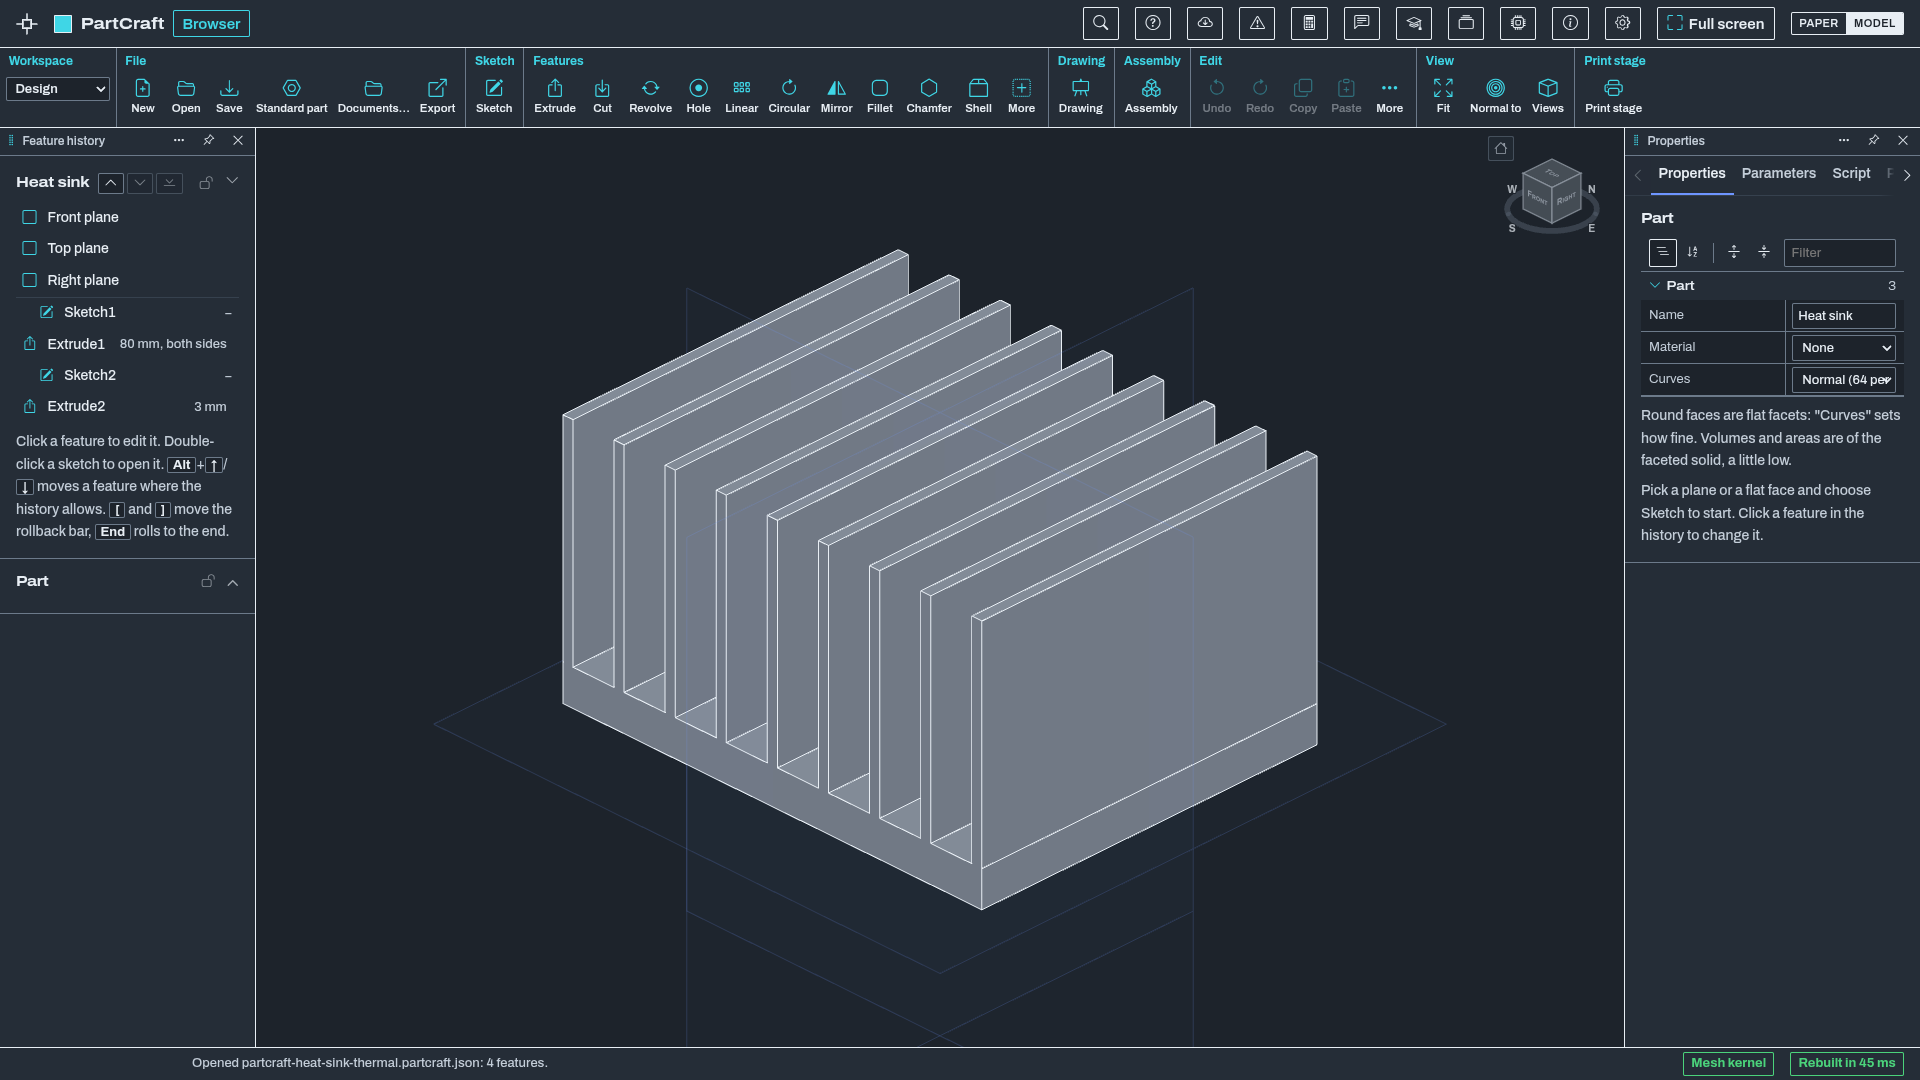
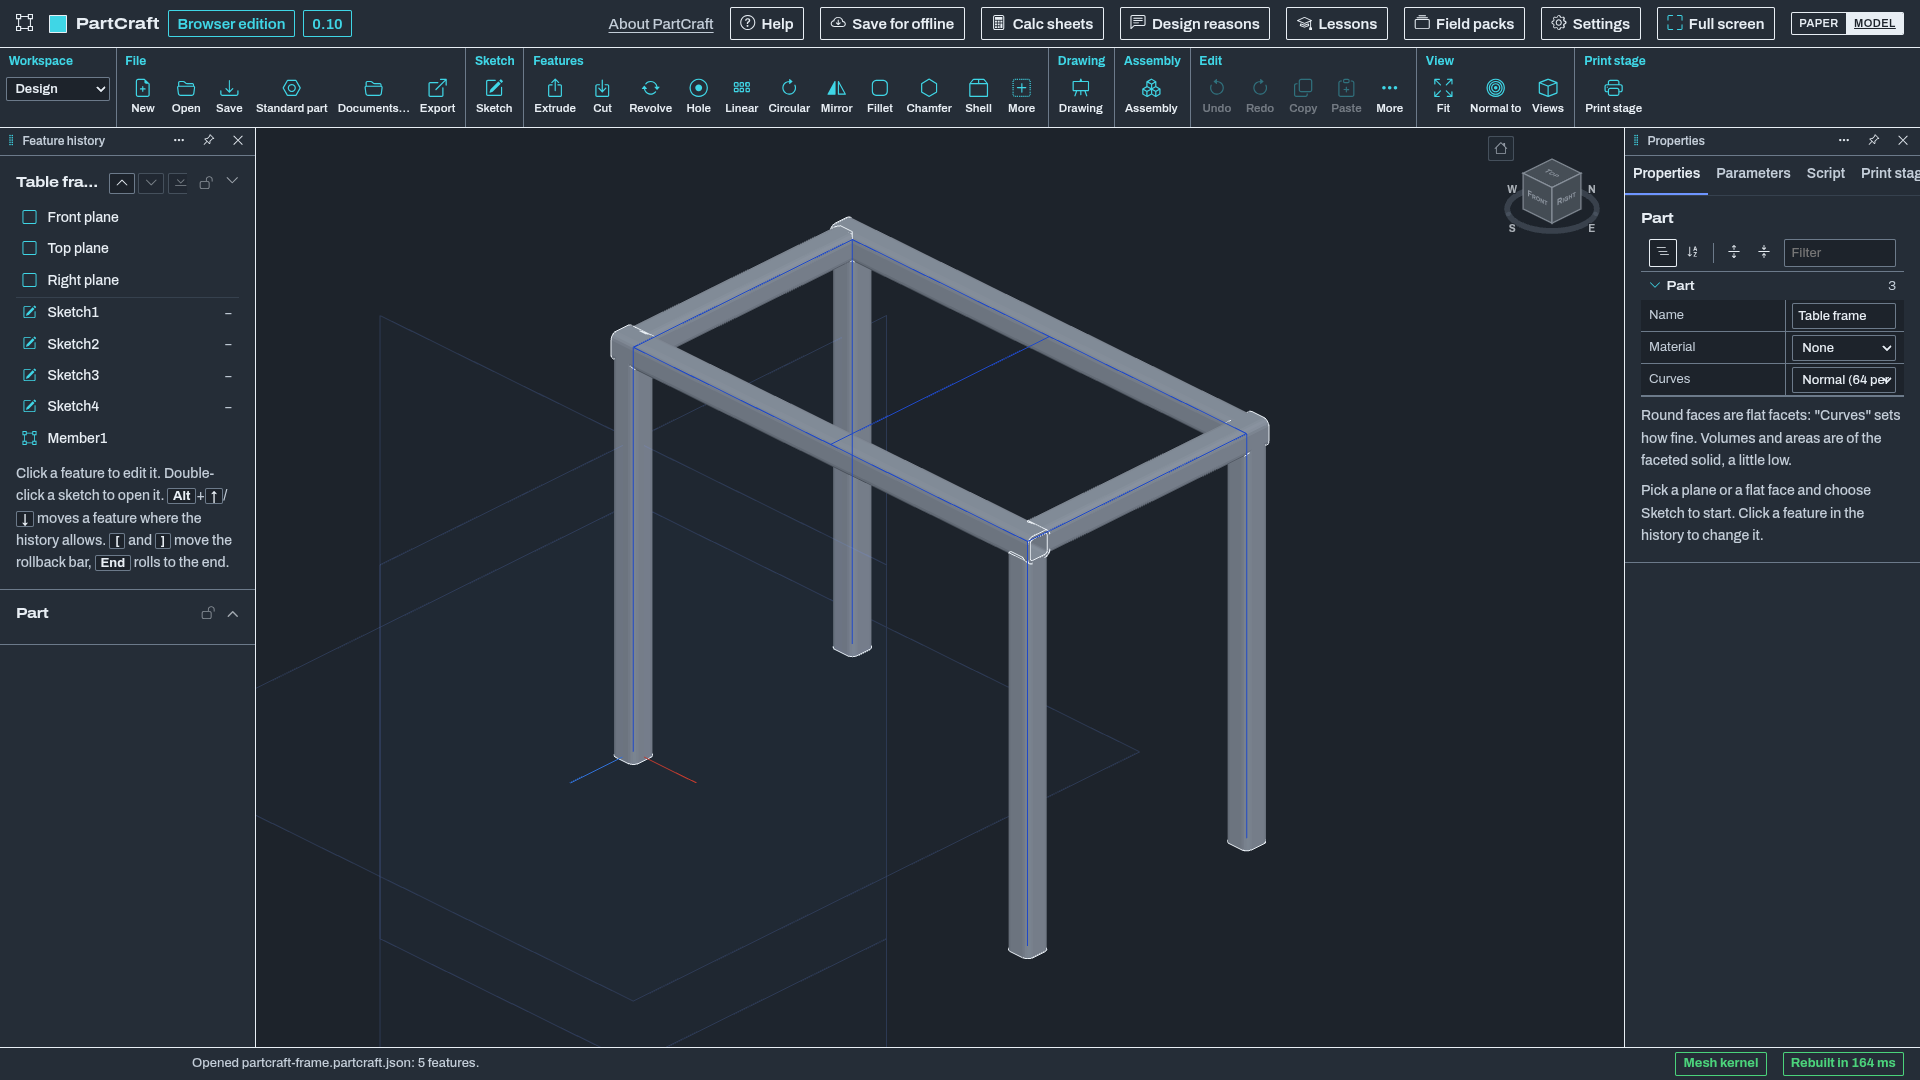
README: 0.10 screenshots (the released 0.10 browser edition, dark theme)

diff --git a/README.md b/README.md
@@ -6,9 +6,9 @@ Sketch, constrain, extrude. Then build the assembly.
 
 **[Website](https://getcadcraft.com/apps/partcraft) | [Use it in your browser](https://getcadcraft.com/use/partcraft) | [Download CadCraft Studio](https://getcadcraft.com/download#studio) | [Help and tutorials](https://getcadcraft.com/tutorials/partcraft) | [News](https://getcadcraft.com/news) | [Suggest a feature](https://getcadcraft.com/suggest)**
 
-[![PartCraft 0.9](screenshots/paper.png)](https://getcadcraft.com/use/partcraft)
+[![PartCraft 0.10](screenshots/paper.png)](https://getcadcraft.com/use/partcraft)
 
-<sub>PartCraft 0.9 in the browser, dark theme. [A second view](screenshots/model.png).</sub>
+<sub>PartCraft 0.10 in the browser, dark theme. [A second view](screenshots/model.png).</sub>
 
 PartCraft is the parametric parts & assemblies app in the [CadCraft](https://getcadcraft.com) family: Constrained sketches, feature history, assemblies with joints and drawings with GD&T. STEP in and out.
 
